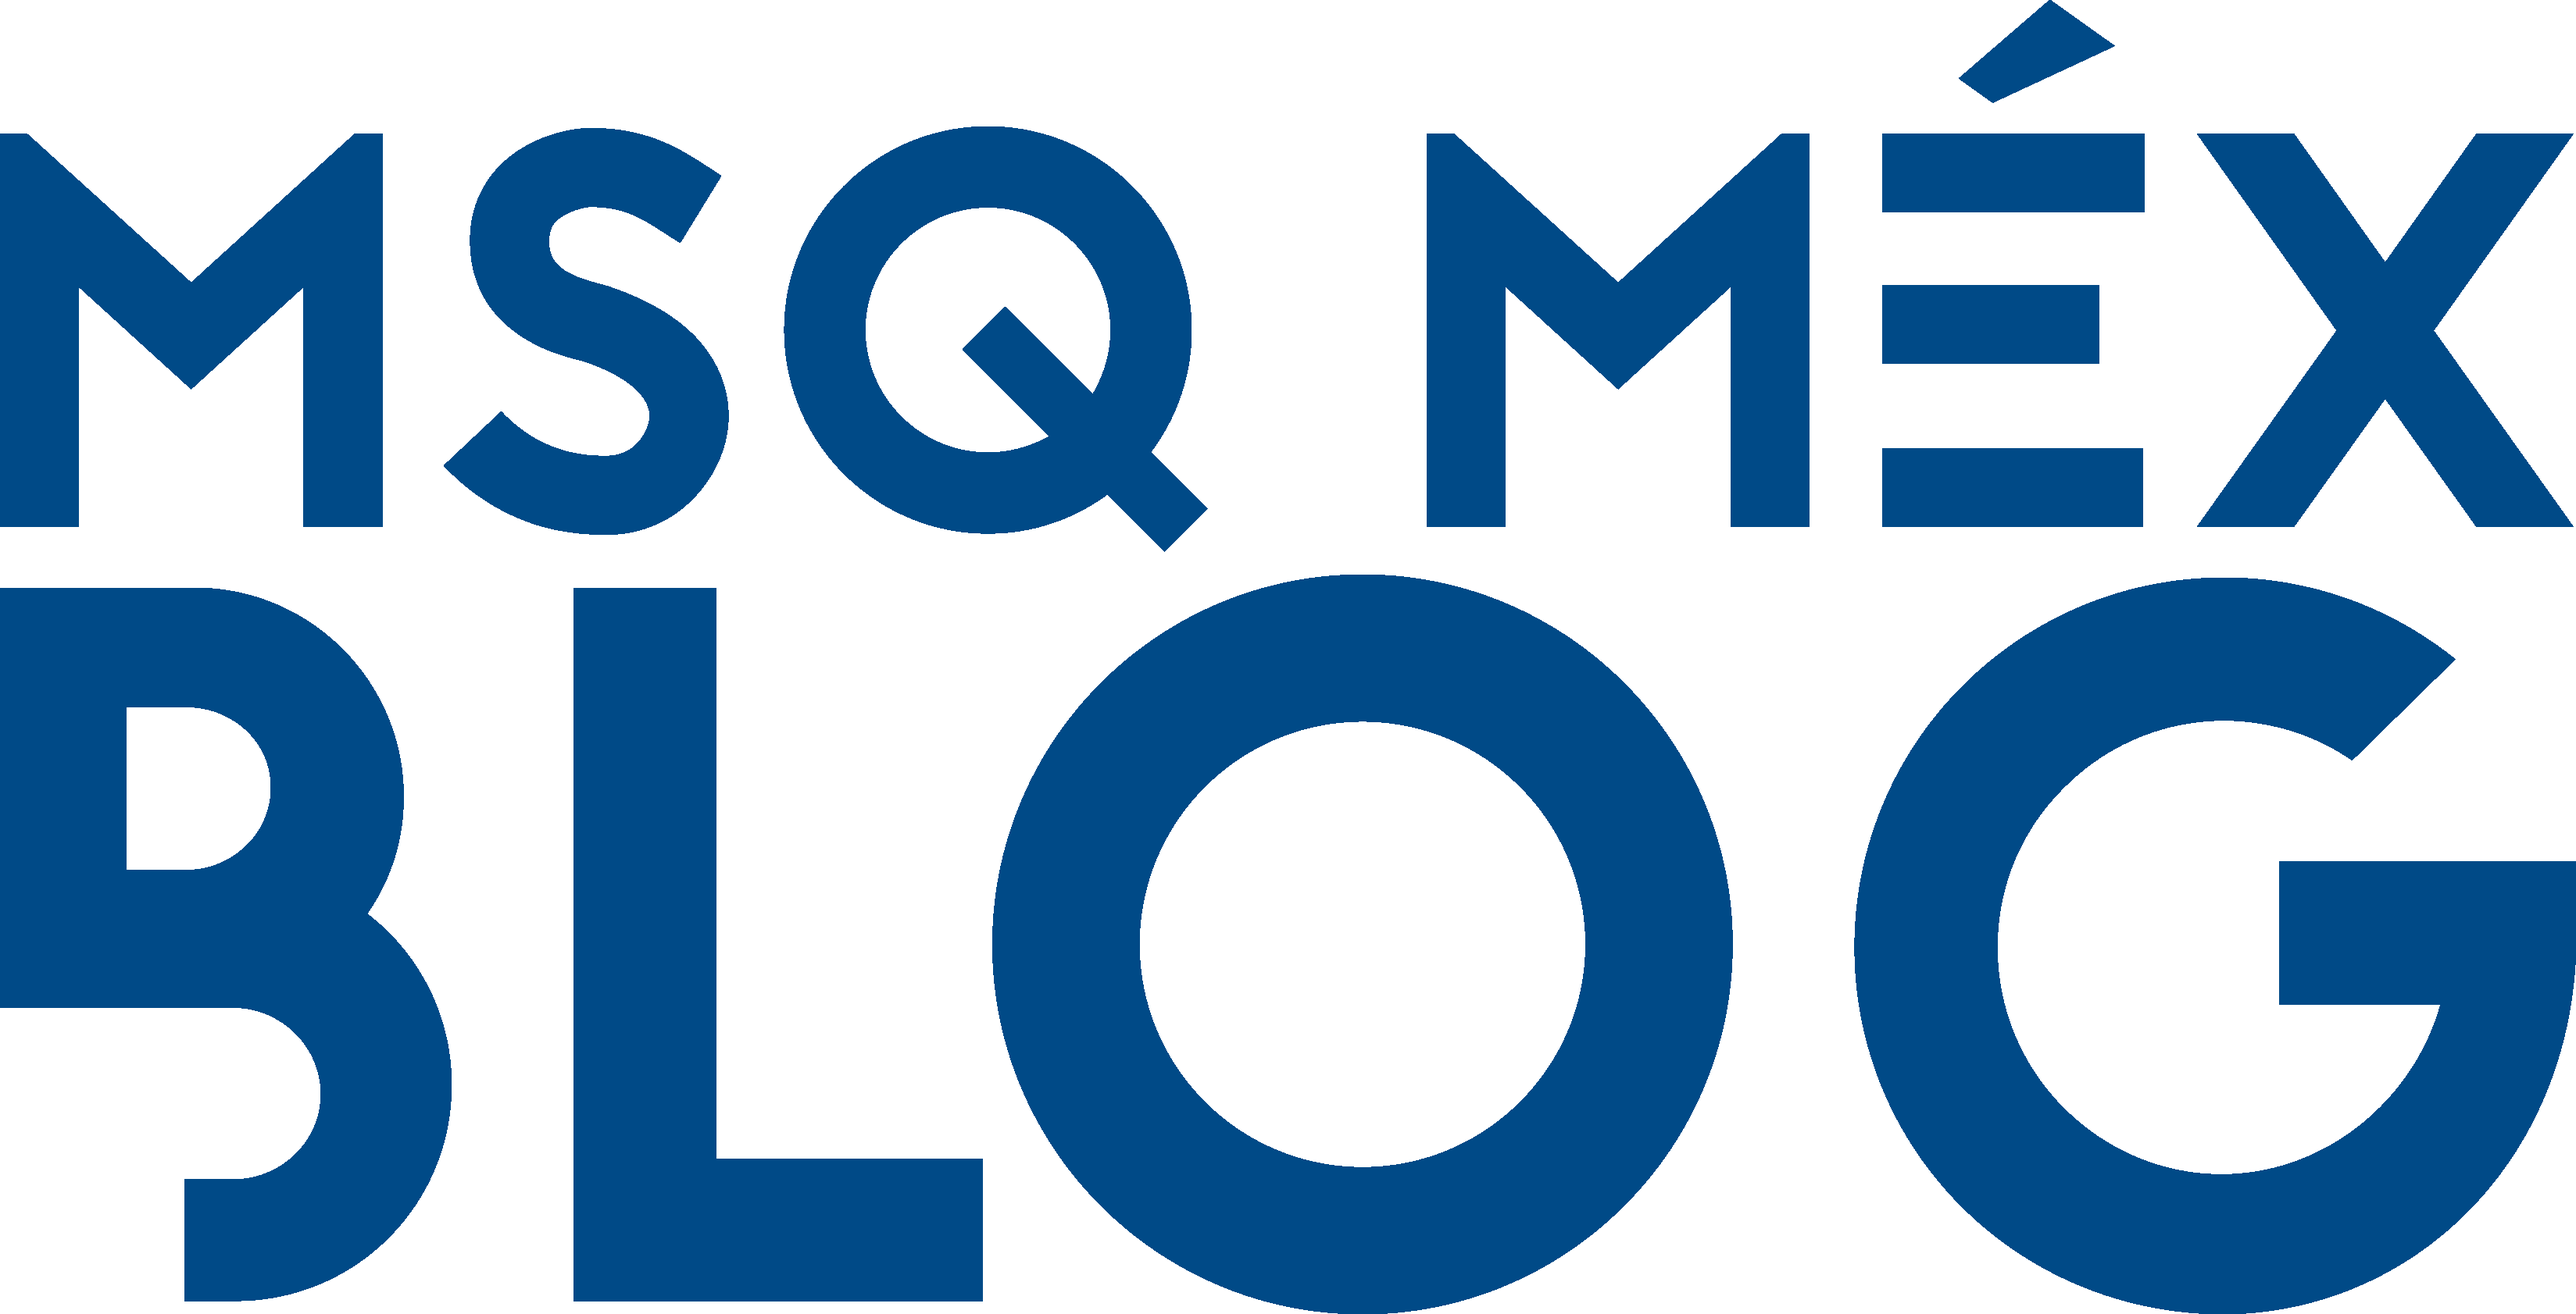
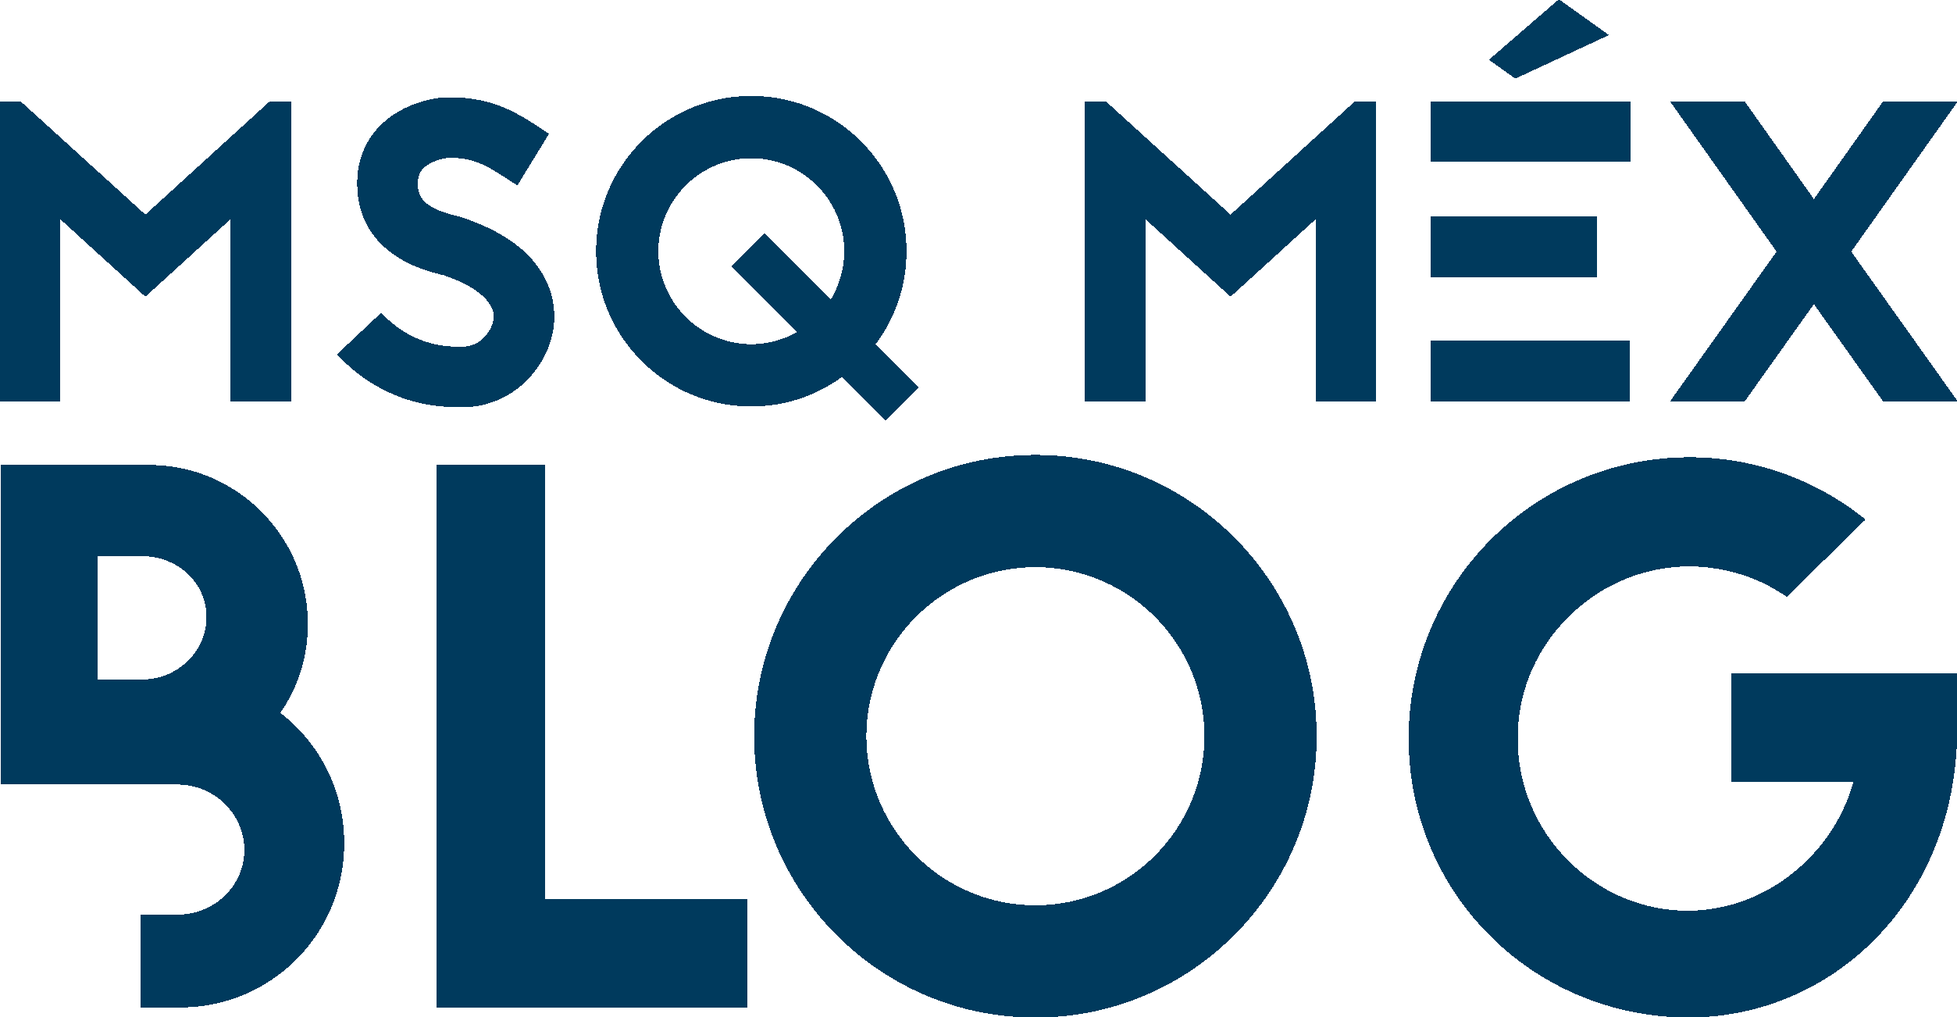
blog main page done

diff --git a/blog.html b/blog.html
@@ -56,64 +56,47 @@
 										de nuestros interéses, experiencias, deporte nacional, noticias nacionales y mundiales,
 										avances tecnológicos y mucho más. </p>
 								</header>
-								<a href="#" class="image featured"><img src="images/msqmex_blog.png" alt="" /></a>
-								<p>Ut sed tortor luctus, gravida nibh eget, volutpat odio. Proin rhoncus, sapien
-								mollis luctus hendrerit, orci dui viverra metus, et cursus nulla mi sed elit. Vestibulum
-								condimentum, mauris a mattis vestibulum, urna mauris cursus lorem, eu fringilla lacus
-								ante non est. Nullam vitae feugiat libero, eu consequat sem. Proin tincidunt neque
-								eros. Duis faucibus blandit ligula, mollis commodo risus sodales at. Sed rutrum et
-								turpis vel blandit. Nullam ornare congue massa, at commodo nunc venenatis varius.
-								Praesent mollis nisi at vestibulum aliquet. Sed sagittis congue urna ac consectetur.</p>
-								<p>Mauris eleifend eleifend felis aliquet ornare. Vestibulum porta velit at elementum
-								gravida nibh eget, volutpat odio. Proin rhoncus, sapien
-								mollis luctus hendrerit, orci dui viverra metus, et cursus nulla mi sed elit. Vestibulum
-								condimentum, mauris a mattis vestibulum, urna mauris cursus lorem, eu fringilla lacus
-								ante non est. Nullam vitae feugiat libero, eu consequat sem. Proin tincidunt neque
-								eros. Duis faucibus blandit ligula, mollis commodo risus sodales at. Sed rutrum et
-								turpis vel blandit. Nullam ornare congue massa, at commodo nunc venenatis varius.
-								Praesent mollis nisi at vestibulum aliquet. Sed sagittis congue urna ac consectetur.</p>
-								<p>Vestibulum pellentesque posuere lorem non aliquam. Mauris eleifend eleifend
-								felis aliquet ornare. Vestibulum porta velit at elementum elementum.</p>
+								<a href="blog.html" class="image featured"><img src="images/msqmex_blog.png" alt="" /></a>
+
 							</article>
 
 						<div class="row features">
 							<section class="4u 12u(narrower) feature">
 								<div class="image-wrapper first">
-									<a href="#" class="image featured"><img src="images/pic03.jpg" alt="" /></a>
+									<a href="#" class="image featured"><img src="images/BLOGPOST_QUEESMSQMEX.png" alt="" /></a>
 								</div>
 								<header>
-									<h3>Dolor sit consequat magna</h3>
+									<h3>¿Qué es Mosaique México?</h3>
 								</header>
-								<p>Lorem ipsum dolor sit amet consectetur et sed adipiscing elit. Curabitur
-								vel sem sit dolor neque semper magna lorem ipsum.</p>
+								<p>¿Tienes esa intriga por saber más de nosotros? En este post podrás
+								conocer un poco de todo lo que hacemos, como se fundó el proyecto
+							& más</p>
 								<ul class="actions">
-									<li><a href="#" class="button">Elevate my awareness</a></li>
+									<li><a href="blog.html" class="button">Leer</a></li>
 								</ul>
 							</section>
 							<section class="4u 12u(narrower) feature">
 								<div class="image-wrapper">
-									<a href="#" class="image featured"><img src="images/pic04.jpg" alt="" /></a>
+									<a href="#" class="image featured"><img src="images/BLOGPOST_PROXIMAMENTE.png" alt="" /></a>
 								</div>
 								<header>
-									<h3>Dolor sit consequat magna</h3>
+									<h3>¿Quieres seguir leyendo?</h3>
 								</header>
-								<p>Lorem ipsum dolor sit amet consectetur et sed adipiscing elit. Curabitur
-								vel sem sit dolor neque semper magna lorem ipsum.</p>
+								<p>Próximamente tendremos más posts en nuestro blog para su entretenimiento.</p>
 								<ul class="actions">
-									<li><a href="#" class="button">Elevate my awareness</a></li>
+									<li><a href="blog.html" class="button">Próximamente más</a></li>
 								</ul>
 							</section>
 							<section class="4u 12u(narrower) feature">
 								<div class="image-wrapper">
-									<a href="#" class="image featured"><img src="images/pic05.jpg" alt="" /></a>
+									<a href="#" class="image featured"><img src="images/BLOGPOST_PROXIMAMENTE.png" alt="" /></a>
 								</div>
 								<header>
-									<h3>Dolor sit consequat magna</h3>
+									<h3>¿Quieres seguir leyendo?</h3>
 								</header>
-								<p>Lorem ipsum dolor sit amet consectetur et sed adipiscing elit. Curabitur
-								vel sem sit dolor neque semper magna lorem ipsum.</p>
+								<p>Próximamente tendremos más posts en nuestro blog para su entretenimiento.</p>
 								<ul class="actions">
-									<li><a href="#" class="button">Elevate my awareness</a></li>
+									<li><a href="blog.html" class="button">Próximamente más</a></li>
 								</ul>
 							</section>
 						</div>

diff --git a/assets/js/main.js b/assets/js/main.js
@@ -59,7 +59,7 @@
 				$(
 					'<div id="navPanel">' +
 						'<nav>' +
-							'<a href="index.html" class="link depth-0">Home</a>' +
+							'<a href="index.html" class="link depth-0">Inicio</a>' +
 							$('#nav').navList() +
 						'</nav>' +
 					'</div>'

diff --git a/assets/css/ie9.css b/assets/css/ie9.css
@@ -1,10 +1,4 @@
-/*
-	Telephasic by HTML5 UP
-	html5up.net | @ajlkn
-	Free for personal and commercial use under the CCA 3.0 license (html5up.net/license)
-*/
 
-/* Wrappers */
 
 	#header-wrapper {
 		background-image: none;

diff --git a/assets/css/ie8.css b/assets/css/ie8.css
@@ -1,8 +1,4 @@
-/*
-	Telephasic by HTML5 UP
-	html5up.net | @ajlkn
-	Free for personal and commercial use under the CCA 3.0 license (html5up.net/license)
-*/
+
 
 /* Basic */
 

diff --git a/assets/css/MSQ_main.css b/assets/css/MSQ_main.css
@@ -1584,7 +1584,7 @@
 
 	h1, h2, h3, h4, h5, h6 {
 		font-weight: 300;
-		color: #003399;
+		color: #003366;
 	}
 
 	h1 a, h2 a, h3 a, h4 a, h5 a, h6 a {
